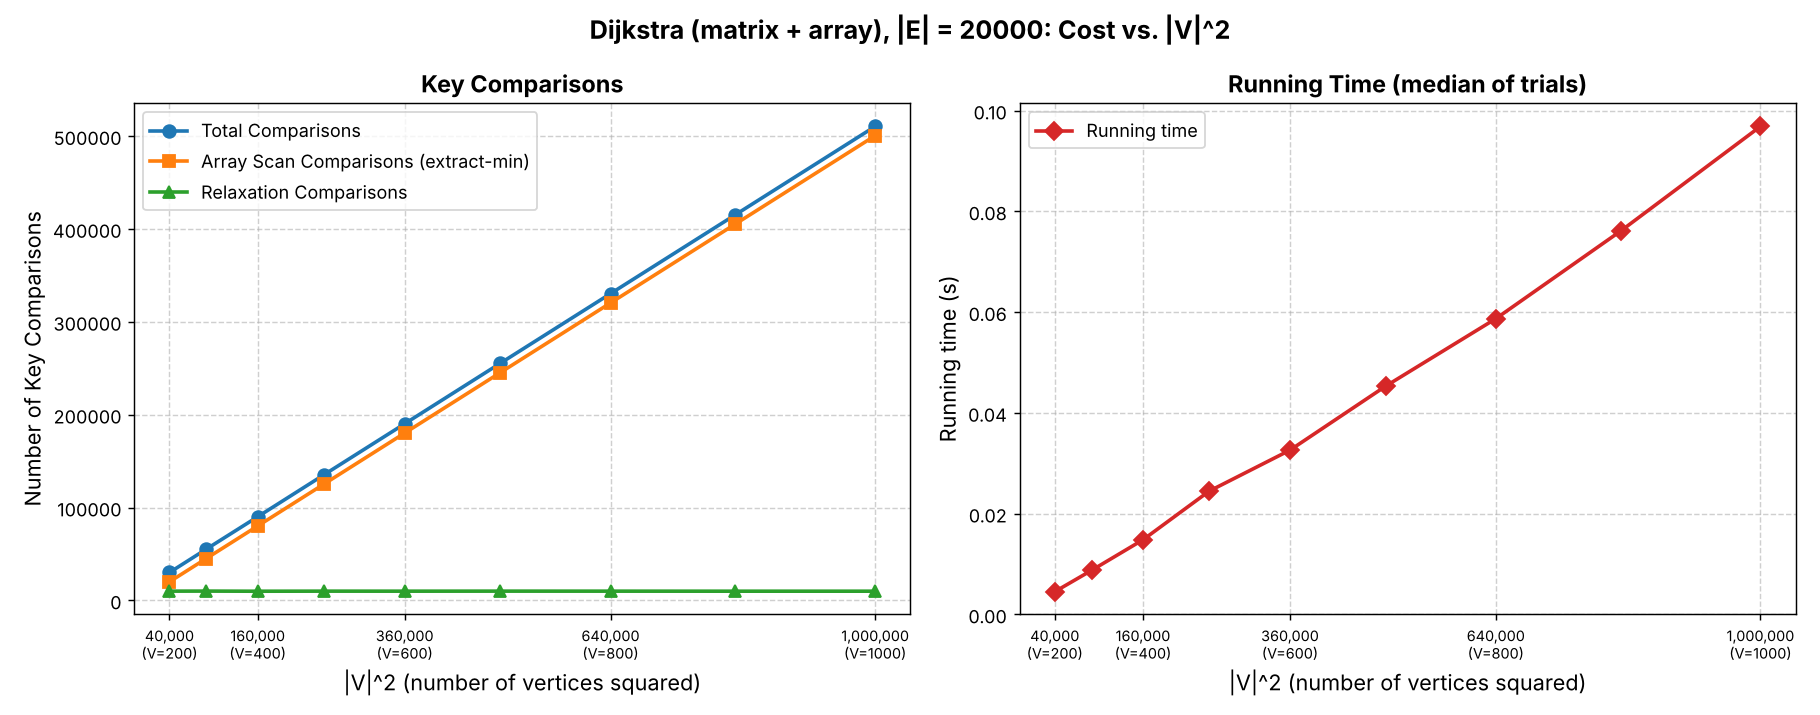
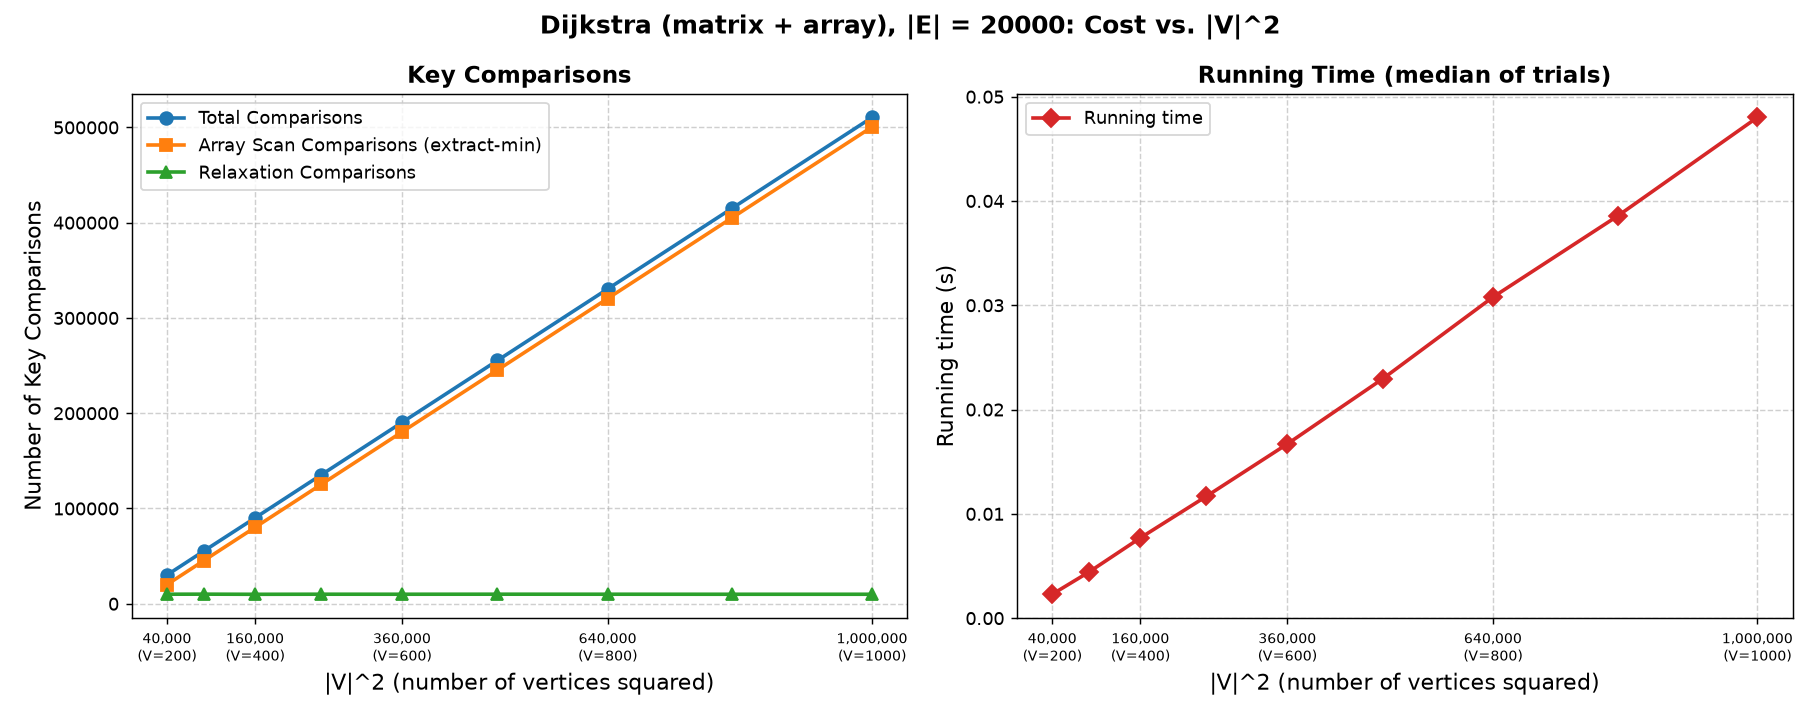
Part (a): time each graph over shuffled passes to remove timing noise
Single-cell medians picked up background load as bumps in the time
contours. The grid now runs in 3 shuffled passes and each graph keeps its
fastest time. Time fit improves from R^2 0.9906 to 0.9986; results and
README updated to match.

diff --git a/dijkstra/experiments.py b/dijkstra/experiments.py
@@ -10,6 +10,7 @@ parts) and running time. Outputs go into ./results:
     contour_time.png
 """
 import csv
+import gc
 import os
 import sys
 import time
@@ -24,36 +25,54 @@ from graph_gen import generate_edges, to_matrix
 
 OUT = os.path.join(os.path.dirname(os.path.abspath(__file__)), "results")
 TRIALS = 5
+PASSES = 3  # whole-grid timing passes, see run_grid
 V_VALUES = list(range(100, 1001, 100))
 E_VALUES = list(range(5000, 100001, 5000))
 FIXED_V = 500
 FIXED_E = 20000
 
 
-def measure(n, m):
-    scan = relax = 0.0
-    times = []
-    for seed in range(TRIALS):
-        mat = to_matrix(n, generate_edges(n, m, seed=seed))
-        t = time.perf_counter()
-        _, _, c = dijkstra_matrix_array(mat, 0)
-        times.append(time.perf_counter() - t)
-        scan += c.scan
-        relax += c.relax
-    return scan / TRIALS, relax / TRIALS, float(np.median(times))
-
-
 def run_grid():
+    """
+    Timing on a busy machine is noisy in stretches, so a median of a few runs
+    inside one cell can still come out slow (it showed up as bumps in the time
+    contours). Instead every (|V|, |E|, seed) graph is timed once per pass,
+    each pass visits the graphs in a different shuffled order, and every graph
+    keeps its fastest time. Counts are deterministic, so they just come from
+    the last pass.
+    """
     shape = (len(V_VALUES), len(E_VALUES))
+    tasks = [(i, j, s) for i, n in enumerate(V_VALUES) for j, m in enumerate(E_VALUES)
+             if n - 1 <= m <= n * (n - 1) for s in range(TRIALS)]
+    best = {t: float("inf") for t in tasks}
+    counts = {}
+    rng = np.random.default_rng(2001)
+
+    for p in range(PASSES):
+        for k in rng.permutation(len(tasks)):
+            i, j, s = tasks[k]
+            n, m = V_VALUES[i], E_VALUES[j]
+            mat = to_matrix(n, generate_edges(n, m, seed=s))
+            gc.collect()
+            gc.disable()
+            t = time.perf_counter()
+            _, _, c = dijkstra_matrix_array(mat, 0)
+            elapsed = time.perf_counter() - t
+            gc.enable()
+            best[tasks[k]] = min(best[tasks[k]], elapsed)
+            counts[tasks[k]] = c
+        print(f"pass {p + 1}/{PASSES} done", flush=True)
+
     g = {k: np.full(shape, np.nan) for k in ("scan", "relax", "total", "time")}
-    for i, n in enumerate(V_VALUES):
-        for j, m in enumerate(E_VALUES):
-            if not (n - 1 <= m <= n * (n - 1)):
+    for i in range(len(V_VALUES)):
+        for j in range(len(E_VALUES)):
+            cell = [(i, j, s) for s in range(TRIALS) if (i, j, s) in best]
+            if not cell:
                 continue
-            s, r, t = measure(n, m)
-            g["scan"][i, j], g["relax"][i, j] = s, r
-            g["total"][i, j], g["time"][i, j] = s + r, t
-        print(f"V={n} done")
+            g["scan"][i, j] = np.mean([counts[t].scan for t in cell])
+            g["relax"][i, j] = np.mean([counts[t].relax for t in cell])
+            g["total"][i, j] = g["scan"][i, j] + g["relax"][i, j]
+            g["time"][i, j] = float(np.median([best[t] for t in cell]))
     os.makedirs(OUT, exist_ok=True)
     with open(os.path.join(OUT, "grid.csv"), "w", newline="") as f:
         w = csv.writer(f)

diff --git a/dijkstra/README.md b/dijkstra/README.md
@@ -25,7 +25,7 @@ python experiments.py
 ## Empirical results (see `results/`)
 
 `experiments.py` runs the algorithm on a grid: |V| = 100..1000 (step 100) x |E| = 5000..100000 (step 5000),
-skipping infeasible cells (|E| > |V|(|V|-1)). Each cell uses 5 random graphs (comparisons averaged, time = median).
+skipping infeasible cells (|E| > |V|(|V|-1)). Each cell uses 5 random graphs (comparisons averaged). For timing, the whole grid is run in 3 shuffled passes and each graph keeps its fastest time (this removes noise from other processes on the machine); a cell's time is the median over its 5 graphs.
 Raw data: `results/grid.csv`. Comparisons are split into array-scan and relaxation parts.
 
 | File | Content |
@@ -39,7 +39,7 @@ Findings
 - Scan comparisons depend only on |V| (about |V|^2 / 2): constant in |E|, vertical contour lines.
 - Relaxation comparisons depend only on |E| (about |E| / 2): constant in |V|, horizontal contour lines.
 - Least-squares fit over the whole grid: comparisons = 0.5004 |V|^2 + 0.5002 |E| + 118 (R^2 = 1.0000).
-- Time fit: 9.3e-8 |V|^2 + 5.9e-8 |E| (R^2 = 0.99). Both terms are present, but |V|^2 dominates for most of the grid,
+- Time fit: 4.8e-8 |V|^2 + 3.3e-8 |E| (R^2 = 0.9986). Both terms are present, but |V|^2 dominates for most of the grid,
   matching Theta(|V|^2 + |E|) = Theta(|V|^2).
 - The matrix row scan (a Theta(|V|) loop per vertex even for non-edges) is not a key comparison, so it is not
   counted, but it is why the time still grows as |V|^2.
